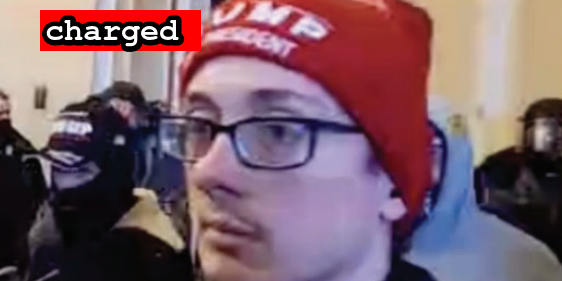
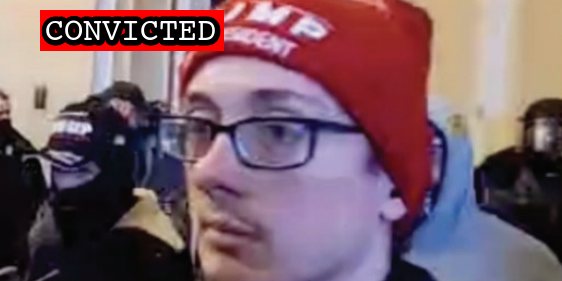
Latest pleas

Changed region(s): [[0.0605, 0.0285, 0.4235, 0.1993]]

diff --git a/docs/_suspects/kenneth-reda.md b/docs/_suspects/kenneth-reda.md
@@ -4,11 +4,11 @@ lastName: Reda
 hashtag: KennethReda
 aka:
 residence: Florida
-status: Charged
+status: Convicted
 date: 2021-07-01
 charged: 2021-07-01
 indicted:
-convicted:
+convicted: 2021-11-04
 sentenced:
 dismissed:
 deceased:
@@ -34,9 +34,12 @@ published: true
 caseNumber: 1:21-cr-452
 videos:
 charges:
+- code: 18 USC § 5104(e)(2)(G)
+  title: Parading, demonstrating or picketing in a Capitol building
+  url: https://www.law.cornell.edu/uscode/text/40/5104
+  felony: false
 sentence:
 ---
-
 - [News Report](https://www.floridatoday.com/story/news/2021/07/06/viera-high-p-e-teacher-arrested-connection-jan-6-capital-riot/7881247002/)
 - [Statement of Facts](https://www.justice.gov/usao-dc/case-multi-defendant/file/1408996/download)
 - [Information](https://www.justice.gov/usao-dc/case-multi-defendant/file/1412846/download)

diff --git a/docs/_suspects/joshua-wagner.md b/docs/_suspects/joshua-wagner.md
@@ -4,15 +4,15 @@ lastName: Wagner
 hashtag: JoshuaWagner
 aka:
 residence: Indiana
-status: Charged
+status: Convicted
 date: 2021-01-26
 charged: 2021-01-26
 indicted:
-convicted: 
+convicted: 2021-11-05
 sentenced: 
 dismissed: 
 deceased:
-plea_hearing:
+plea_hearing: 2021-11-05
 sentencing:
 age: 23
 occupation:
@@ -34,6 +34,10 @@ published: true
 caseNumber: 1:21-cr-310
 videos:
 charges:
+- code: 18 USC § 5104(e)(2)(G)
+  title: Parading, demonstrating or picketing in a Capitol building
+  url: https://www.law.cornell.edu/uscode/text/40/5104
+  felony: false
 sentence:
 ---
 - [News Report](https://www.indystar.com/story/news/crime/2021/01/26/capitol-riot-fbi-insurrection-indiana-men-facing-federal-charges/4269649001/)
